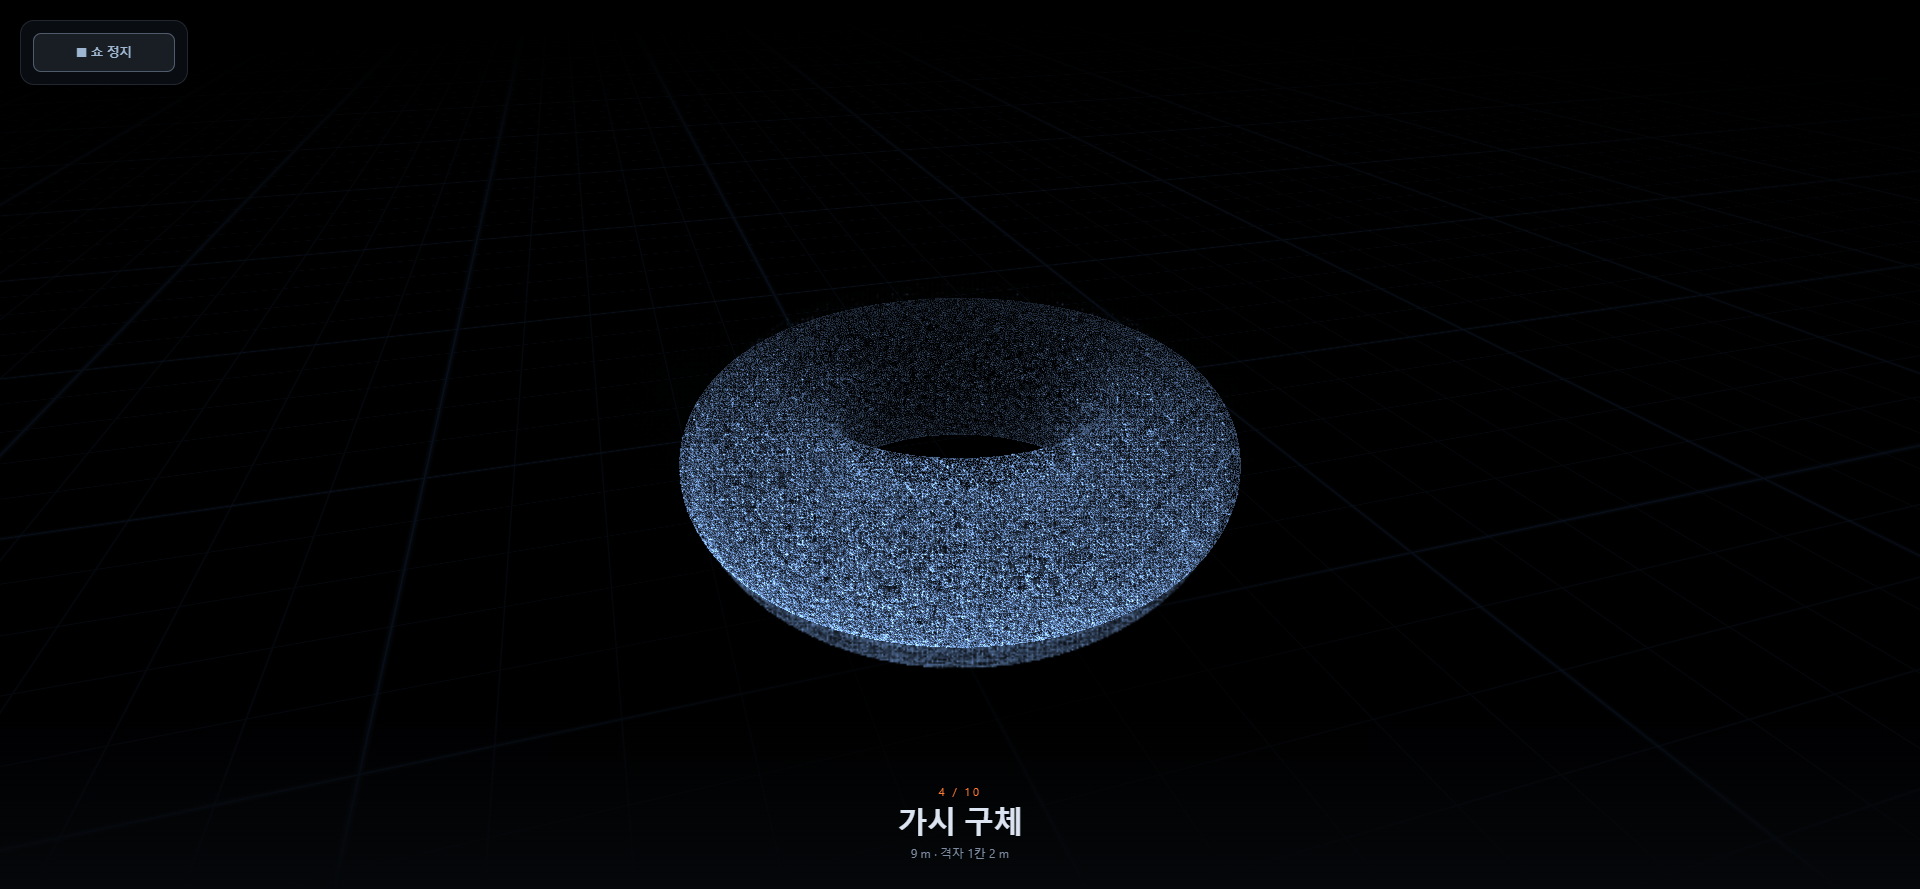
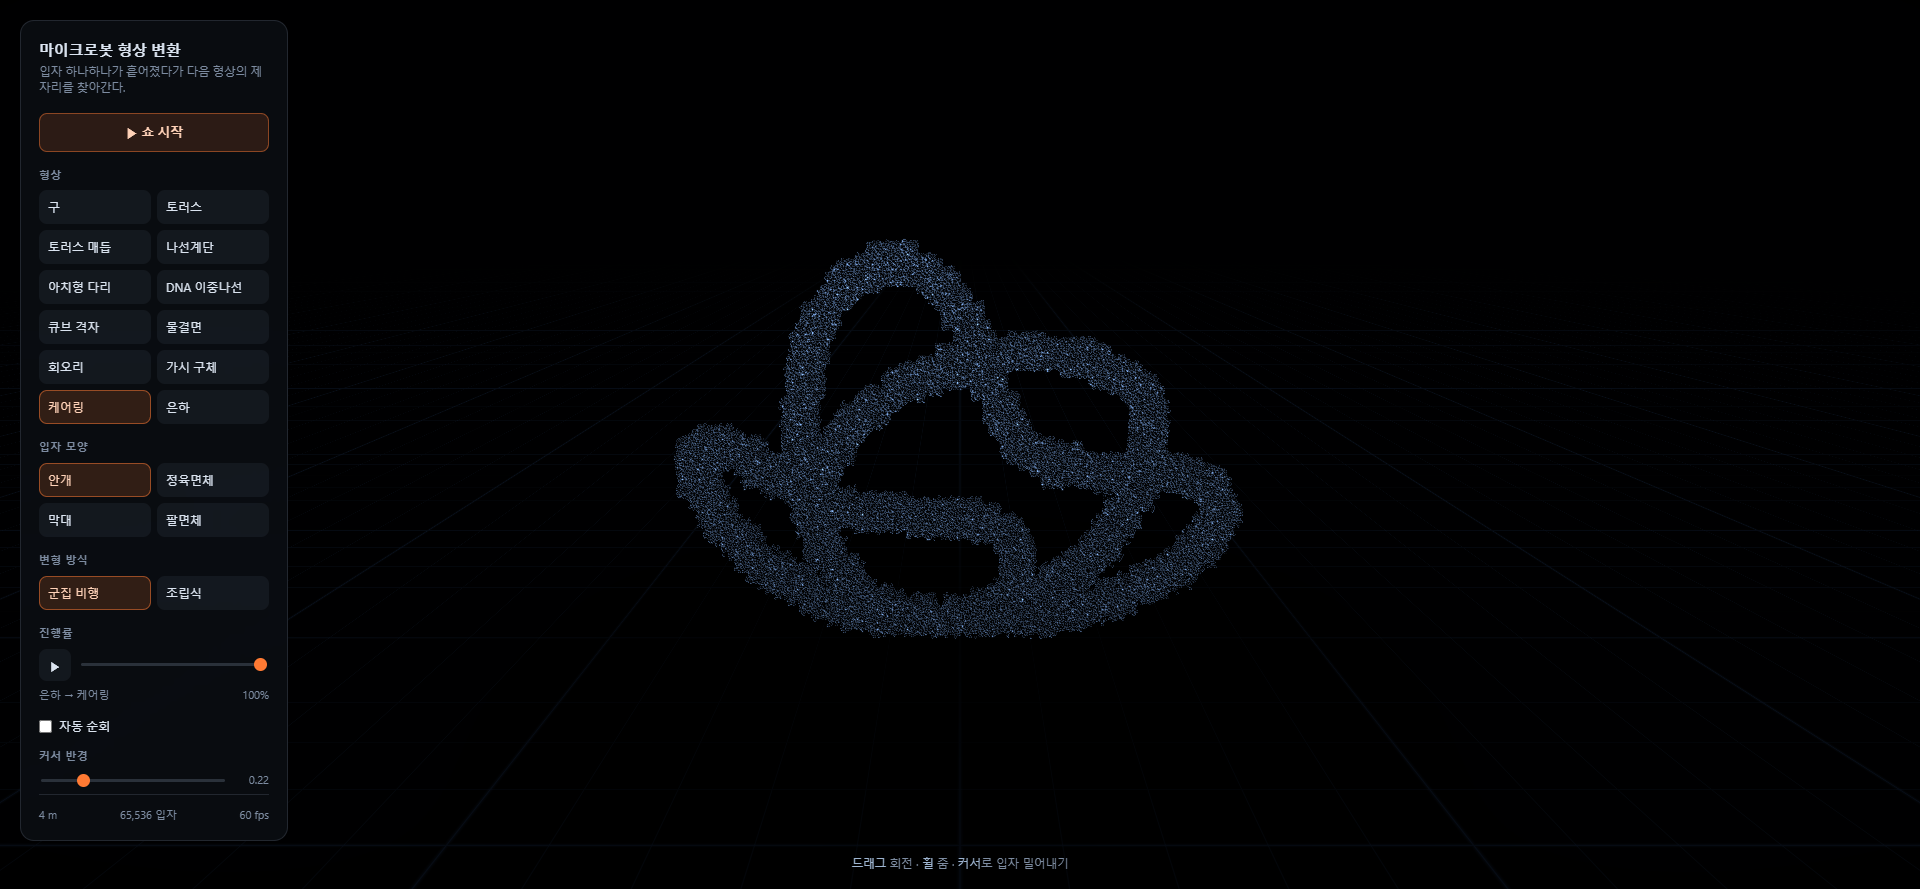
형상 추가 — 은하, 케어링 로고
케어링 로고는 사용자가 준 이미지에서 마크만(글자 제외) 뽑아 96x68
비트마스크로 구웠다. 런타임에 이미지를 들고 다니지 않으므로 외부 에셋
0개 원칙이 유지된다. 행별 잉크 밀도로 마크와 글자를 가르는 빈 구간을
찾아 잘랐다.

은하는 실제 은하의 네 성분을 쌓는다. 팽대부 18%, 나선 팔 66%, 원반의
흩어진 별 12%, 헤일로 4%. 팔은 로그 나선을 따르고 B=0.23이면 피치각
약 13도, 1.55바퀴다.

첫 시도는 균일한 원반으로 보였다. 흩어진 별을 26%나 두고 팔을 넓게
퍼뜨린 탓이다. 입자 밝기가 전부 같아 구조를 읽을 단서가 밀도뿐이라는
점을 놓쳤다.

그리고 입자에 크기·밝기 등급을 넣었다. 시드 하나로 크기(0.62~1.92배)와
밝기를 함께 매겨 큰 입자가 더 밝다. 은하만이 아니라 모든 형상의 질감이
덜 균일해진다.

은하는 10만 광년이라 미터로 적을 수 없어 형상에 선택적 unit을 두고
바닥 격자 눈금 후보의 자릿수를 넓혔다.

diff --git a/src/shapes.js b/src/shapes.js
@@ -4,6 +4,8 @@
 // 불변 규칙: 모든 형상은 정확히 같은 개수의 점을 반환한다.
 // 입자 i가 형상 A의 i번째 자리에서 형상 B의 i번째 자리로 1:1 대응되어야 한다.
 
+import { MASK_W, MASK_H, isInk } from "./caringMask.js";
+
 const TAU = Math.PI * 2;
 
 export const FIT_RADIUS = 1.5;
@@ -324,6 +326,99 @@ function genSpikeBall(pos, n, rnd) {
   }
 }
 
+// 표준정규분포 하나. 별 분포는 균등 난수로는 안 나온다.
+function gaussian(rnd) {
+  let u = 0, v = 0;
+  while (u === 0) u = rnd();
+  while (v === 0) v = rnd();
+  return Math.sqrt(-2 * Math.log(u)) * Math.cos(TAU * v);
+}
+
+// 정면나선은하.
+//
+// 실제 은하의 네 성분을 그대로 쌓는다: 팽대부, 나선 팔, 원반의 흩어진 별,
+// 헤일로. 팔은 로그 나선 r = R0·e^(B·θ)를 따른다 — 실제 grand-design
+// 나선은하의 피치각(12~20도)이 이 식에서 나온다.
+function genGalaxy(pos, n, rnd) {
+  const ARMS = 2;
+  const B = 0.23;          // 작을수록 촘촘히 감긴다. 0.23이면 피치각 약 13도
+  const R0 = 0.16;         // 팔이 풀려 나오기 시작하는 반경
+  const RMAX = 1.5;
+  const THETA_MAX = Math.log(RMAX / R0) / B;   // 약 1.55바퀴
+
+  for (let i = 0; i < n; i++) {
+    const roll = rnd();
+
+    if (roll < 0.18) {
+      // 팽대부. 중심으로 갈수록 급격히 빽빽하고 위아래로 눌려 있다.
+      const r = 0.30 * Math.pow(rnd(), 2.2);
+      const a = rnd() * TAU;
+      const cz = Math.acos(rnd() * 2 - 1);
+      const s = Math.sin(cz);
+      setP(pos, i, r * s * Math.cos(a), r * Math.cos(cz) * 0.55, r * s * Math.sin(a));
+    } else if (roll < 0.84) {
+      // 나선 팔. 전체의 2/3를 여기 몰아야 팔이 드러난다 — 입자 밝기가
+      // 다 같아서 구조를 읽을 단서가 밀도뿐이다.
+      const arm = Math.floor(rnd() * ARMS);
+      const t = Math.pow(rnd(), 0.55);
+      const theta = t * THETA_MAX;
+      const r = R0 * Math.exp(B * theta);
+      const a = theta + (arm / ARMS) * TAU;
+
+      // 팔은 바깥으로 갈수록 두꺼워지지만, 넓게 퍼지면 원반과 구분이 안 된다.
+      let spread = 0.022 + 0.05 * (r / RMAX);
+      // 성운 덩어리. 일부는 훨씬 좁게 뭉쳐 팔 위에 밝은 매듭을 만든다.
+      if (rnd() < 0.35) spread *= 0.28;
+
+      const rr = r + gaussian(rnd) * spread;
+      const aa = a + (gaussian(rnd) * spread) / Math.max(r, 0.2);
+      setP(pos, i,
+        rr * Math.cos(aa),
+        gaussian(rnd) * (0.016 + 0.012 * (1 - r / RMAX)),
+        rr * Math.sin(aa));
+    } else if (roll < 0.96) {
+      // 원반에 흩어진 별. 비중이 높으면 팔 사이를 메워 나선이 사라진다.
+      const r = RMAX * Math.pow(rnd(), 0.55);
+      const a = rnd() * TAU;
+      setP(pos, i,
+        r * Math.cos(a),
+        gaussian(rnd) * (0.02 + 0.03 * Math.exp(-r * 2.2)),
+        r * Math.sin(a));
+    } else {
+      // 헤일로. 원반 밖으로 드물게 흩뿌려진 별.
+      const r = 0.5 + rnd() * 0.95;
+      const a = rnd() * TAU;
+      const cz = Math.acos(rnd() * 2 - 1);
+      const s = Math.sin(cz);
+      setP(pos, i, r * s * Math.cos(a), r * Math.cos(cz) * 0.5, r * s * Math.sin(a));
+    }
+  }
+}
+
+// 케어링 로고 마크. 구워둔 실루엣 마스크 안을 고르게 채운다.
+function genCaring(pos, n, rnd) {
+  const ink = [];
+  for (let gy = 0; gy < MASK_H; gy++) {
+    for (let gx = 0; gx < MASK_W; gx++) {
+      if (isInk(gx, gy)) ink.push(gy * MASK_W + gx);
+    }
+  }
+
+  const s = 2 / MASK_W;
+  const cx = MASK_W / 2, cy = MASK_H / 2;
+  const thickness = 0.13;   // 납작한 판은 옆에서 보면 사라진다
+
+  for (let i = 0; i < n; i++) {
+    const cell = ink[Math.floor(rnd() * ink.length)];
+    const gx = cell % MASK_W;
+    const gy = (cell / MASK_W) | 0;
+    setP(pos, i,
+      (gx + rnd() - cx) * s,
+      -(gy + rnd() - cy) * s,
+      (rnd() - 0.5) * thickness);
+  }
+}
+
 // --- 공개 API --------------------------------------------------------------
 
 const GENERATORS = {
@@ -337,6 +432,8 @@ const GENERATORS = {
   wave: genWave,
   vortex: genVortex,
   spikeball: genSpikeBall,
+  galaxy: genGalaxy,
+  caring: genCaring,
 };
 
 // realSize: 이 형상이 "현실에서 몇 미터짜리인가". 월드 좌표를 바꾸지 않는다.
@@ -356,7 +453,13 @@ export const SHAPE_LIST = [
   { id: "wave", label: "물결면", realSize: 30 },
   { id: "vortex", label: "회오리", realSize: 26 },
   { id: "spikeball", label: "가시 구체", realSize: 9 },
+  { id: "caring", label: "케어링", realSize: 4 },
+  // 은하만 단위가 다르다. 미터로 적으면 읽을 수 없는 숫자가 된다.
+  { id: "galaxy", label: "은하", realSize: 100000, unit: "광년" },
 ];
+
+export const unitOf = (id) =>
+  SHAPE_LIST.find((s) => s.id === id)?.unit ?? "m";
 
 // 정규화된 형상의 최대 지름. centerAndFit이 최대 반경을 FIT_RADIUS로
 // 맞추므로 가장 긴 축은 이 값에 가깝다.

diff --git a/src/caringMask.js b/src/caringMask.js
@@ -1,0 +1,51 @@
+// 케어링 로고 마크의 실루엣.
+//
+// 원본 이미지에서 마크 영역(글자 제외)만 잘라 96x68 비트마스크로 구웠다.
+// 이미지 파일을 런타임에 들고 다니지 않으므로 "외부 에셋 0개" 원칙이
+// 유지된다. 1비트 = 격자 한 칸, 4칸이 16진수 한 글자다.
+//
+// 추출 조건: 채도 40 이상이거나 밝기 200 미만인 픽셀을 잉크로 보고,
+// 한 칸의 40% 이상이 잉크면 채운 칸으로 판정했다.
+
+export const MASK_W = 96;
+export const MASK_H = 68;
+
+const HEX =
[16 lines of base64/hex data omitted]
+  "000ffffffff80000000";
+
+let cells = null;
+
+// 마스크를 Uint8Array로 펼친다. 한 번만 만들고 재사용한다.
+export function maskCells() {
+  if (cells) return cells;
+  cells = new Uint8Array(MASK_W * MASK_H);
+  for (let i = 0; i < HEX.length; i++) {
+    const v = parseInt(HEX[i], 16);
+    for (let k = 0; k < 4; k++) {
+      const idx = i * 4 + k;
+      if (idx < cells.length) cells[idx] = (v >> (3 - k)) & 1;
+    }
+  }
+  return cells;
+}
+
+export function isInk(gx, gy) {
+  if (gx < 0 || gy < 0 || gx >= MASK_W || gy >= MASK_H) return false;
+  return maskCells()[gy * MASK_W + gx] === 1;
+}

diff --git a/src/ui.js b/src/ui.js
@@ -109,7 +109,8 @@ export function createUI(handlers) {
       autoTourEl.checked = state.autoTour;
 
       // 크기 표시가 이 프로젝트에서 스케일을 말로 확인시켜 주는 유일한 곳이다.
-      statSizeEl.textContent = state.realSize ? state.realSize + " m" : "—";
+      const unit = state.unit || "m";
+      statSizeEl.textContent = state.realSize ? state.realSize + " " + unit : "—";
 
       showBtnEl.textContent = state.showRunning ? "■ 쇼 정지" : "▶ 쇼 시작";
       showBtnEl.classList.toggle("running", Boolean(state.showRunning));
@@ -123,8 +124,8 @@ export function createUI(handlers) {
         hudIndexEl.textContent = String((state.showIndex ?? 0) + 1);
         hudTotalEl.textContent = String(state.showTotal ?? 0);
         hudNameEl.textContent = labelOf(state.toId);
-        hudSizeEl.textContent = (state.realSize ?? "—") + " m";
-        hudCellEl.textContent = (state.cellMeters ?? "—") + " m";
+        hudSizeEl.textContent = (state.realSize ?? "—") + " " + unit;
+        hudCellEl.textContent = (state.cellMeters ?? "—") + " " + unit;
       }
     },
 

diff --git a/src/ground.js b/src/ground.js
@@ -62,7 +62,11 @@ void main() {
 // 미터 값(1·2·5·10·20)을 고르고 그 값을 화면에 적는다.
 //
 // 월드 크기가 0.35~1.2 밖으로 나가면 격자가 뭉개지거나 너무 성겨진다.
-const NICE_METERS = [1, 2, 5, 10, 20, 50];
+// 은하(10만 광년)부터 로고(4m)까지 걸치므로 자릿수를 넓게 깐다.
+const NICE_METERS = [];
+for (let e = -1; e <= 6; e++) {
+  for (const m of [1, 2, 5]) NICE_METERS.push(m * Math.pow(10, e));
+}
 
 export function pickCell(realSizeMeters, worldSpan) {
   let best = NICE_METERS[0];
@@ -73,7 +77,9 @@ export function pickCell(realSizeMeters, worldSpan) {
     const err = Math.abs(world - 0.55);
     if (err < bestErr) { bestErr = err; best = m; }
   }
-  return { meters: best, world: (best / realSizeMeters) * worldSpan };
+  // 0.1 단위까지 내려가면 소수점이 붙는다. 읽기 좋게 정리한다.
+  const label = best >= 1 ? String(best) : String(Math.round(best * 10) / 10);
+  return { meters: label, world: (best / realSizeMeters) * worldSpan };
 }
 
 export function createGround() {

diff --git a/src/particles.js b/src/particles.js
@@ -41,13 +41,16 @@ void main() {
   // 이게 없으면 구가 평평한 원반이 된다.
   vFog = clamp((-mv.z - (uCamDist - 1.65)) / 3.3, 0.0, 1.0);
 
-  // 입자마다 미세한 밝기 차. 고른 노이즈로 보이는 것을 막는다.
-  vTint = 0.72 + aSeed.z * 0.55;
+  // 크기와 밝기를 같은 시드에 묶는다. 큰 입자가 더 밝아야 "별"로 읽힌다.
+  // 전부 같은 크기면 아무리 배치를 잘해도 먼지처럼 보인다.
+  float grade = aSeed.z;
+  vTint = 0.5 + grade * 0.95;
 
   // uSize는 월드 단위 지름이다. 원근에 따라 자연스럽게 작아진다.
   // 상한이 헐거우면 카메라가 가까이 붙었을 때 입자가 거대한 방울이 되어
   // 화면을 덮고 형상이 사라진다. 평소 크기는 2~6px이라 상한이 낮아도 손해가 없다.
-  float px = uSize * (1.0 + vSpeed * 0.8) * uProjScale / max(-mv.z, 0.1);
+  float px = uSize * (0.62 + grade * 1.3) * (1.0 + vSpeed * 0.8)
+             * uProjScale / max(-mv.z, 0.1);
   gl_PointSize = clamp(px, 1.0, 12.0);
 }
 `;

diff --git a/src/main.js b/src/main.js
@@ -1,5 +1,5 @@
 import * as THREE from "three";
-import { SHAPE_LIST, buildShape, buildScatter, bottomOf, WORLD_SPAN } from "./shapes.js";
+import { SHAPE_LIST, buildShape, buildScatter, bottomOf, WORLD_SPAN, unitOf } from "./shapes.js";
 import { createParticles } from "./particles.js";
 import { createChips } from "./chips.js";
 import { formById, DEFAULT_FORM } from "./forms.js";
@@ -156,7 +156,8 @@ function buildWorld(startId, withIntro) {
 function decorate(s) {
   return Object.assign(s, {
     form: currentForm,
-    realSize: sizeOf(s.toId),
+    realSize: sizeOf(s.toId).toLocaleString("ko-KR"),
+    unit: unitOf(s.toId),
     cellMeters: cellFor(s.toId).meters,
     showRunning: show ? show.running : false,
     showIndex: show ? show.index : 0,

diff --git a/src/cameraPresets.js b/src/cameraPresets.js
@@ -20,6 +20,11 @@ const PRESETS = {
   wave: { theta: 1.1, phi: 1.30, radius: 6.6 },
   vortex: { theta: 0.7, phi: 1.68, radius: 6.2 },     // 깔때기 아래에서
   spikeball: { theta: 1.4, phi: 1.30, radius: 5.7 },
+  // 은하는 나선이 보이려면 위에서 내려다봐야 한다. 완전한 수직은
+  // 원반의 두께가 사라져 평면 그림이 되므로 조금 눕힌다.
+  galaxy: { theta: 0.4, phi: 0.62, radius: 6.4 },
+  // 로고는 XY 평면에 서 있다. theta 0이 정면이다.
+  caring: { theta: 0.0, phi: 1.34, radius: 5.5 },
 };
 
 export function presetFor(shapeId) {

diff --git a/docs/superpowers/specs/2026-09-19-microbot-morph-design.md b/docs/superpowers/specs/2026-09-19-microbot-morph-design.md
@@ -320,6 +320,43 @@ three.js 코어만 CDN에서 가져온다. OrbitControls·EffectComposer 같은
 접근 깊이는 35%에서 18%로 더 줄였다. 비행 중에는 입자가 형상 반경 밖으로
 부풀기 때문에, 정착 거리 기준으로 재면 생각보다 훨씬 가까워진다.
 
+## 6차 추가 — 은하, 케어링 로고
+
+### 케어링 로고: 이미지를 코드로 굽는다
+
+사용자가 준 로고 이미지에서 마크만(글자 제외) 뽑아 96x68 비트마스크로
+구워 `caringMask.js`에 넣었다. 런타임에 이미지 파일을 들고 다니지 않으므로
+"외부 에셋 0개" 원칙이 유지된다.
+
+추출은 브라우저 캔버스로 했다. 채도 40 이상이거나 밝기 200 미만인 픽셀을
+잉크로 보고, 행별 잉크 밀도를 훑어 마크(y 51~106)와 글자(y 119~163)를
+가르는 빈 구간을 찾아 마크만 잘랐다. 한 칸의 40% 이상이 잉크면 채운 칸으로
+판정했다.
+
+납작한 판은 옆에서 보면 사라지므로 Z 방향으로 두께를 준다.
+
+### 은하: 실제 은하의 네 성분을 쌓는다
+
+팽대부(18%), 나선 팔(66%), 원반의 흩어진 별(12%), 헤일로(4%).
+팔은 로그 나선 `r = R0·e^(B·θ)`를 따른다 — 실제 grand-design 나선은하의
+피치각(12~20도)이 이 식에서 나온다. B=0.23이면 약 13도, 1.55바퀴다.
+
+**첫 시도는 균일한 원반으로 보였다.** 흩어진 별을 26%나 두고 팔의 퍼짐을
+0.11까지 키운 탓에 팔이 원반에 묻혔다. 입자 밝기가 전부 같아서 구조를 읽을
+단서가 밀도뿐이라는 점을 놓쳤다. 팔에 2/3를 몰고 퍼짐을 절반으로 줄이니
+나선이 드러났다.
+
+### 입자 크기·밝기 등급
+
+은하를 "먼지"가 아니라 "별"로 보이게 하려면 입자가 제각각이어야 한다.
+시드 하나로 크기(0.62~1.92배)와 밝기를 함께 매겨 큰 입자가 더 밝게 했다.
+은하만이 아니라 모든 형상의 질감이 덜 균일해진다.
+
+### 단위
+
+은하는 10만 광년이라 미터로 적을 수 없다. 형상에 선택적 `unit`을 두고,
+바닥 격자의 눈금 후보도 자릿수를 넓게(0.1m ~ 백만) 깔았다.
+
 ## 이번 범위 밖
 
 텍스트 입력, 3D 모델 업로드, 이미지 변환, 사운드, 톤 전환 버튼, 다국어.
